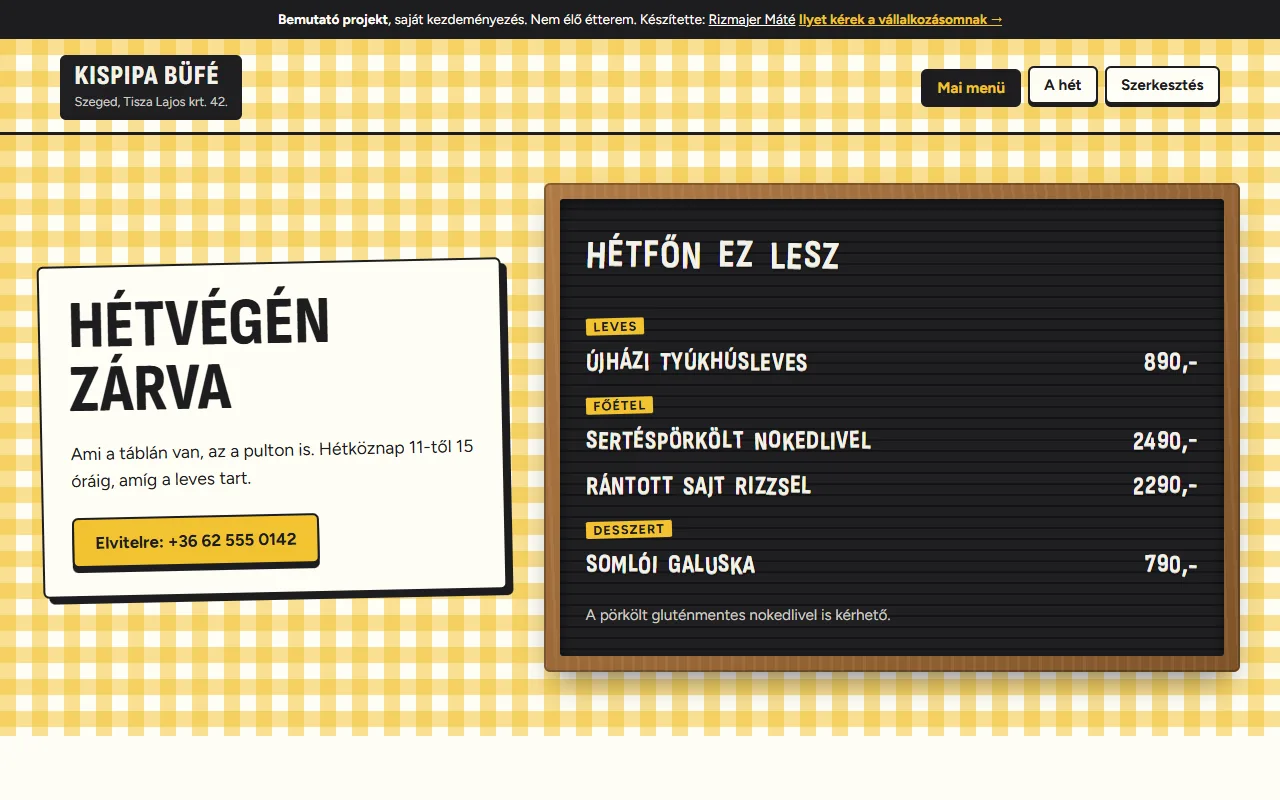
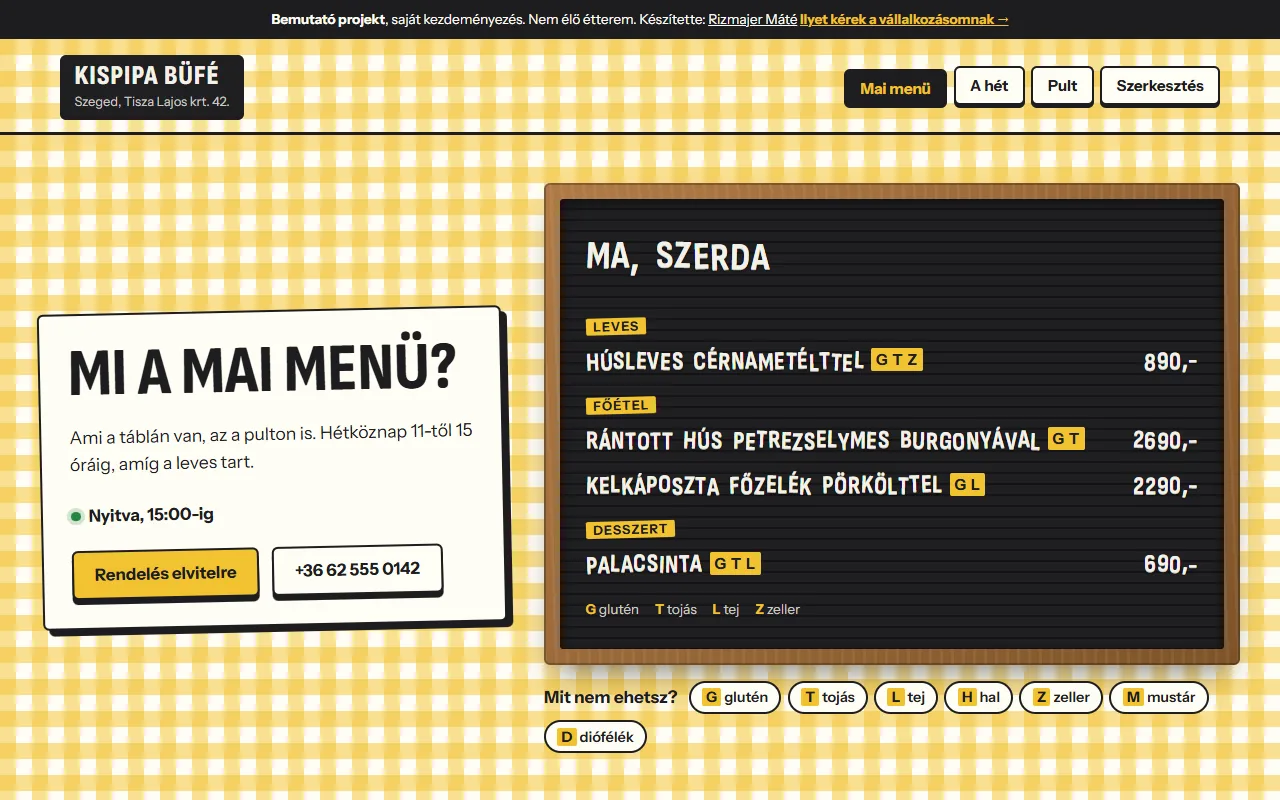
Büfé card and hero phone show the rebuilt counter site.
New screenshots from the live demo (today's board with the allergen
filter, the tear-off week, the stamp card), and the card text and
features describe what the site does now.

diff --git a/src/data/projects.js b/src/data/projects.js
@@ -105,14 +105,14 @@ export const PROJECTS_FULL = [
       en: 'Kispipa Buffet: daily menu',
     },
     text: {
-      hu: 'Bemutató napi menü büfének: a menü betűtáblán jelenik meg, betűnként kitűzve. Elvitelre előre lehet rendelni, a pult nézetben a konyha látja a blokkokat. Saját kezdeményezés, nem ügyfélmunka.',
-      en: 'Demo daily menu for a buffet: the menu appears on a felt letterboard, pinned letter by letter. Takeaway can be ordered ahead, and the counter view shows the kitchen the slips. My own initiative, not client work.',
+      hu: 'Bemutató napi menü büfének: a mai menü betűtáblán, allergénszűrővel. Elvitelre előre lehet rendelni, minden rendelés egy pecsét a telefonos törzskártyán, a hét letéphető naptárlapokon. Saját kezdeményezés, nem ügyfélmunka.',
+      en: 'Demo daily menu for a buffet: today\'s menu on a felt letterboard, with an allergen filter. Takeaway can be ordered ahead, every order is a stamp on a loyalty card kept on the phone, and the week sits on tear-off calendar pages. My own initiative, not client work.',
     },
     tech: ['React', 'Vite'],
     features: [
-      { hu: 'Betűtábla, betűnként kitűzve', en: 'Felt letterboard, pinned letter by letter' },
-      { hu: 'Szerkesztő élő tábla-előnézettel', en: 'Editor with a live board preview' },
+      { hu: 'Betűtábla allergénszűrővel', en: 'Letterboard with an allergen filter' },
       { hu: 'Elviteles rendelés, pult nézettel', en: 'Takeaway orders with a counter view' },
+      { hu: 'Pecsétkártya, tizedik ebéd ingyen', en: 'Stamp card, the tenth lunch free' },
     ],
     featured: false,
     label: { hu: 'Bemutató projekt', en: 'Demo project' },
@@ -139,8 +139,8 @@ export const PROJECTS_FULL = [
       {
         src: napiMenu01,
         alt: {
-          hu: 'Nyitóoldal: a következő nyitvatartási nap menüje a betűtáblán',
-          en: 'Landing: the next open day\'s menu on the letterboard',
+          hu: 'Nyitóoldal: a mai menü a betűtáblán, alatta az allergénszűrő',
+          en: 'Landing: today\'s menu on the letterboard, the allergen filter below it',
         },
         width: 1280,
         height: 800,
@@ -148,8 +148,8 @@ export const PROJECTS_FULL = [
       {
         src: napiMenu02,
         alt: {
-          hu: 'Heti nézet: napválasztó fülek, a tábla minden napnál újra kirakva',
-          en: 'Week view: day tabs, the board set again for each day',
+          hu: 'A hét letéphető naptárlapokon, alatta a nyitva tábla a tűzhely fotóján',
+          en: 'The week on tear-off calendar pages, the open sign hanging on a photo of the stove below',
         },
         width: 1280,
         height: 800,
@@ -157,8 +157,8 @@ export const PROJECTS_FULL = [
       {
         src: napiMenu03,
         alt: {
-          hu: 'Szerkesztő: az űrlap mellett élőben látszik, hogyan kerül ki a menü a táblára',
-          en: 'Editor: next to the form, a live preview of the menu on the board',
+          hu: 'Pecsétkártya: tíz kör, a tizedik ebéd ingyen, alatta a hét ételei fotón',
+          en: 'Stamp card: ten circles, the tenth lunch free, with photos of the week\'s dishes below',
         },
         width: 1280,
         height: 800,
